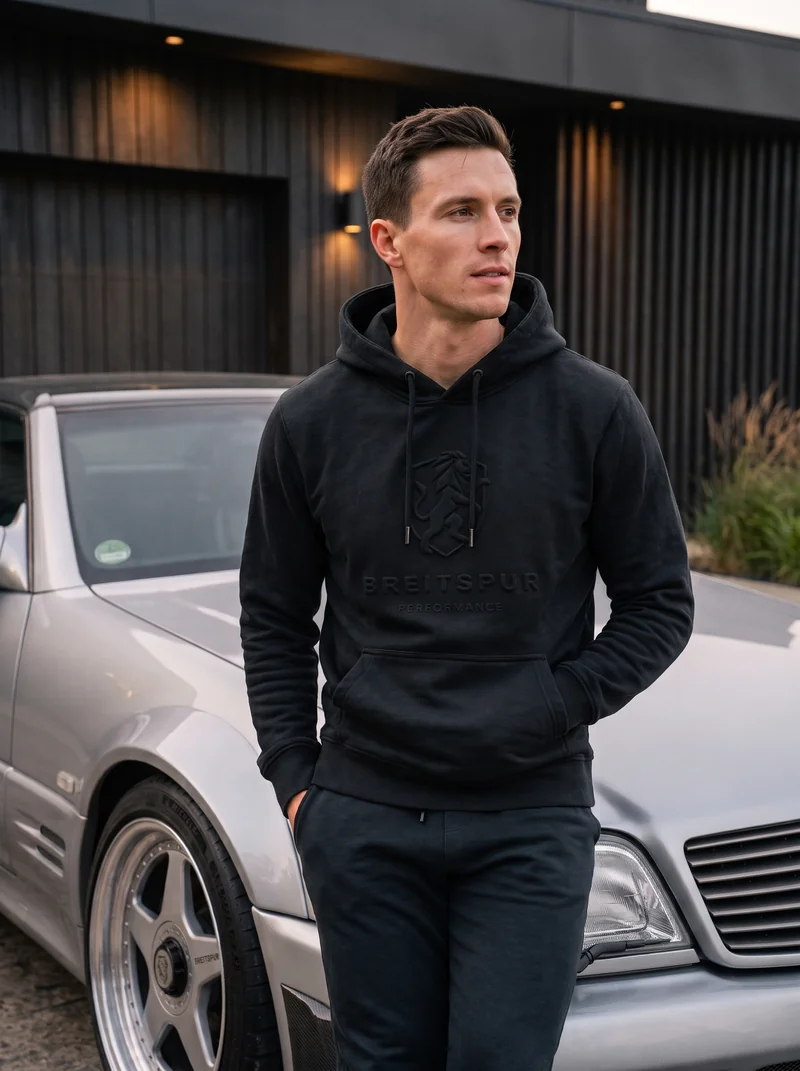
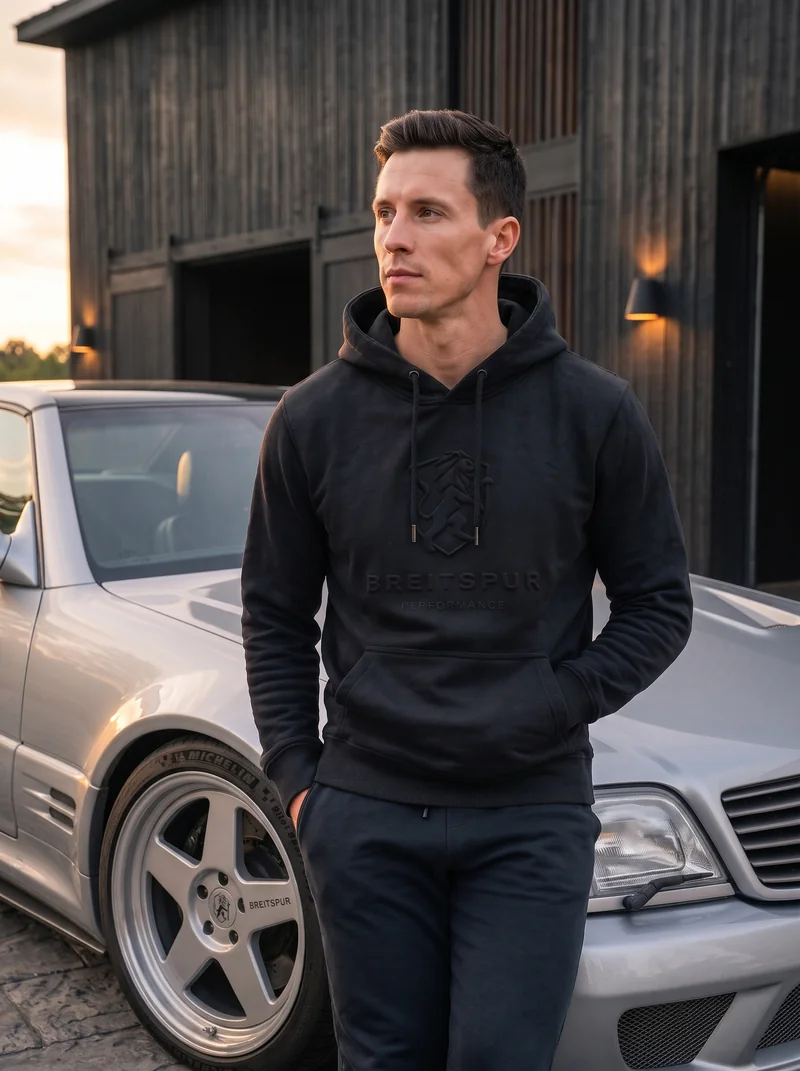
Wappen: new lifestyle shot, cuff and pocket details, editorial gallery
Claude-Session: https://claude.ai/code/session_01BQGnQ1DunPFoL87TBu9aW3

diff --git a/build.js b/build.js
@@ -722,7 +722,7 @@ ${faqSection()}
 </section>
 ${p.configurator && p.configurator.renders ? wheelGallery(p, pRoom) : ""}
 ${!p.configurator && p.gallery && p.gallery.length ? `<section class="gallery product-gallery" style="--room: ${esc(pRoom)}" aria-label="${esc(p.name)} photos">
-  ${p.gallery.map((g) => `<figure class="${g.wide ? "wide" : ""}"><img src="${g.small}" srcset="${g.small} ${g.width > g.height ? 1000 : 800}w, ${g.image} ${g.width}w" sizes="${g.wide ? "90vw" : "(min-width: 860px) 45vw, 90vw"}" width="${g.width}" height="${g.height}" alt="${esc(g.alt)}"${g.position ? ` style="object-position: ${esc(g.position)}"` : ""} loading="lazy" decoding="async">${g.note ? `<figcaption class="gallery-note">${esc(g.note)}</figcaption>` : ""}</figure>`).join("")}
+  ${p.gallery.map((g) => `<figure class="${g.wide ? "wide" : g.tall ? "tall" : ""}"><img src="${g.small}" srcset="${g.small} ${g.width > g.height ? 1000 : 800}w, ${g.image} ${g.width}w" sizes="${g.wide ? "90vw" : "(min-width: 860px) 45vw, 90vw"}" width="${g.width}" height="${g.height}" alt="${esc(g.alt)}"${g.position ? ` style="object-position: ${esc(g.position)}"` : ""} loading="lazy" decoding="async">${g.note ? `<figcaption class="gallery-note">${esc(g.note)}</figcaption>` : ""}</figure>`).join("")}
 </section>` : ""}
 ${p.engineering && p.engineering.length ? `<section class="paper concept-story product-engineering" aria-labelledby="engineering">
   <h2 class="label" id="engineering">ENGINEERING</h2>

diff --git a/assets/styles.css b/assets/styles.css
@@ -561,8 +561,11 @@ h1, h2, h3, .serif-lead { text-wrap: balance; }
 
 /* Apparel and other non wheel products: a simple photo pair on the room color. */
 .product-gallery { background: var(--room); }
-.product-gallery img { width: 100%; height: auto; aspect-ratio: 1600 / 2143; object-fit: cover; }
-.product-gallery .wide img { aspect-ratio: auto; }
+.product-gallery img { width: 100%; height: auto; }
+/* A tall photo beside two landscape ones: it spans both rows and crops to their combined height. */
+.product-gallery .tall { grid-row: span 2; }
+.product-gallery .tall img { height: 100%; object-fit: cover; }
 .gallery-note { margin-top: 12px; font-size: 13px; color: var(--cream-dim); }
 .product-tile-photo { padding: 0; overflow: hidden; }
 .product-tile-photo img { width: 100%; height: 100%; object-fit: cover; }
+@media (max-width: 860px) { .product-gallery .tall { grid-row: auto; } .product-gallery .tall img { height: auto; } }
